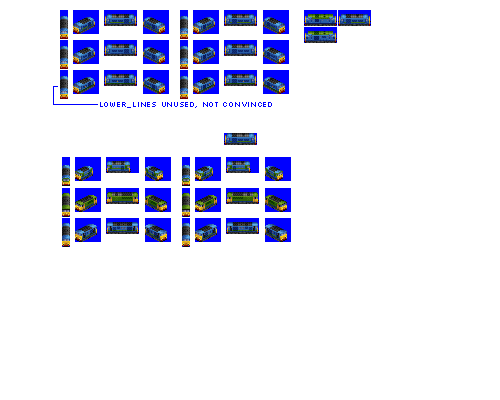
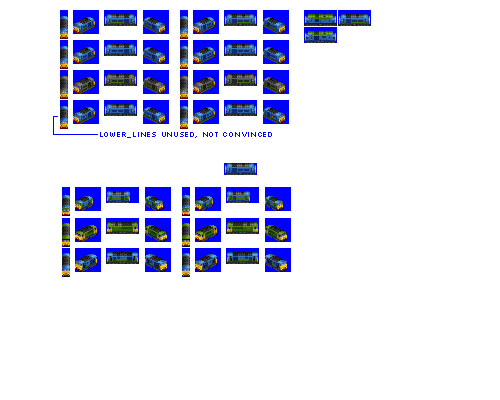
Change: additional livery for Wyvern

Changed region(s): [[0.12, 0.39, 0.6, 0.69], [0.12, 0.18, 0.6, 0.36]]

diff --git a/src/vehicles/pony/wyvern.py b/src/vehicles/pony/wyvern.py
@@ -18,7 +18,7 @@ def main(**kwargs):
         gen=4,
         intro_year_offset=-6,  # let's not have everything turn up in 1960
         fixed_run_cost_points=30,  # give a bonus so this can be a genuine mixed-traffic engine
-        liveries=["CLASSIC_LINES", "BANGER_BLUE"],
+        liveries=["CLASSIC_LINES", "BANGER_BLUE", "FREIGHT_BLACK"],
         sprites_complete=True,
     )
 

diff --git a/bin/company_colour_remaps.py b/bin/company_colour_remaps.py
@@ -9,7 +9,7 @@ from polar_fox import graphics_units
 # requires a tmp dir to exist, which should be gitignored
 # set the filename
 input_filenames = [
-    "reliance",
+    "wyvern",
 ]
 
 CC1 = 198
